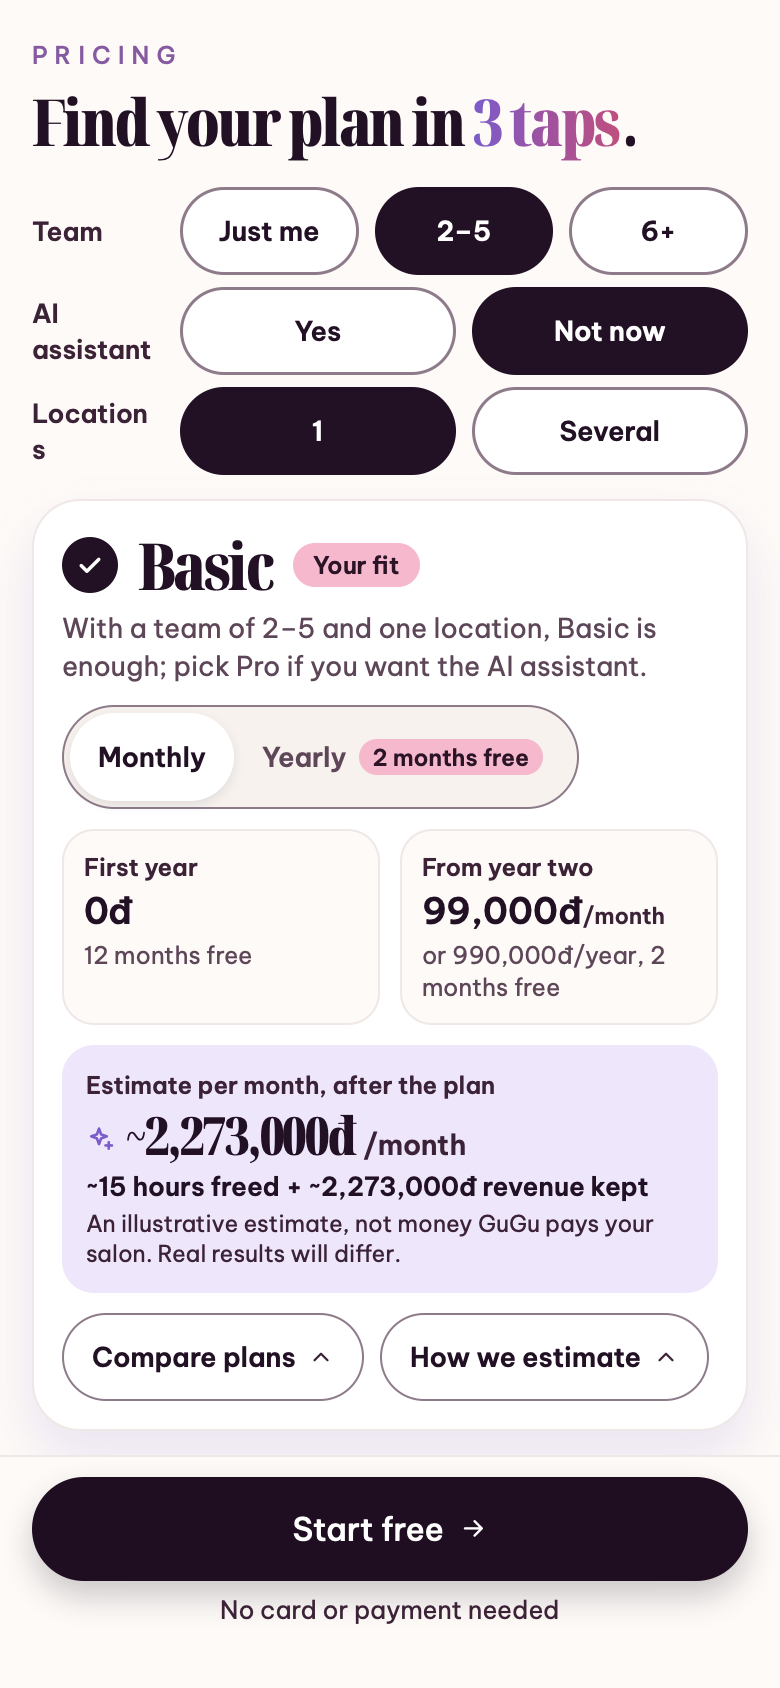
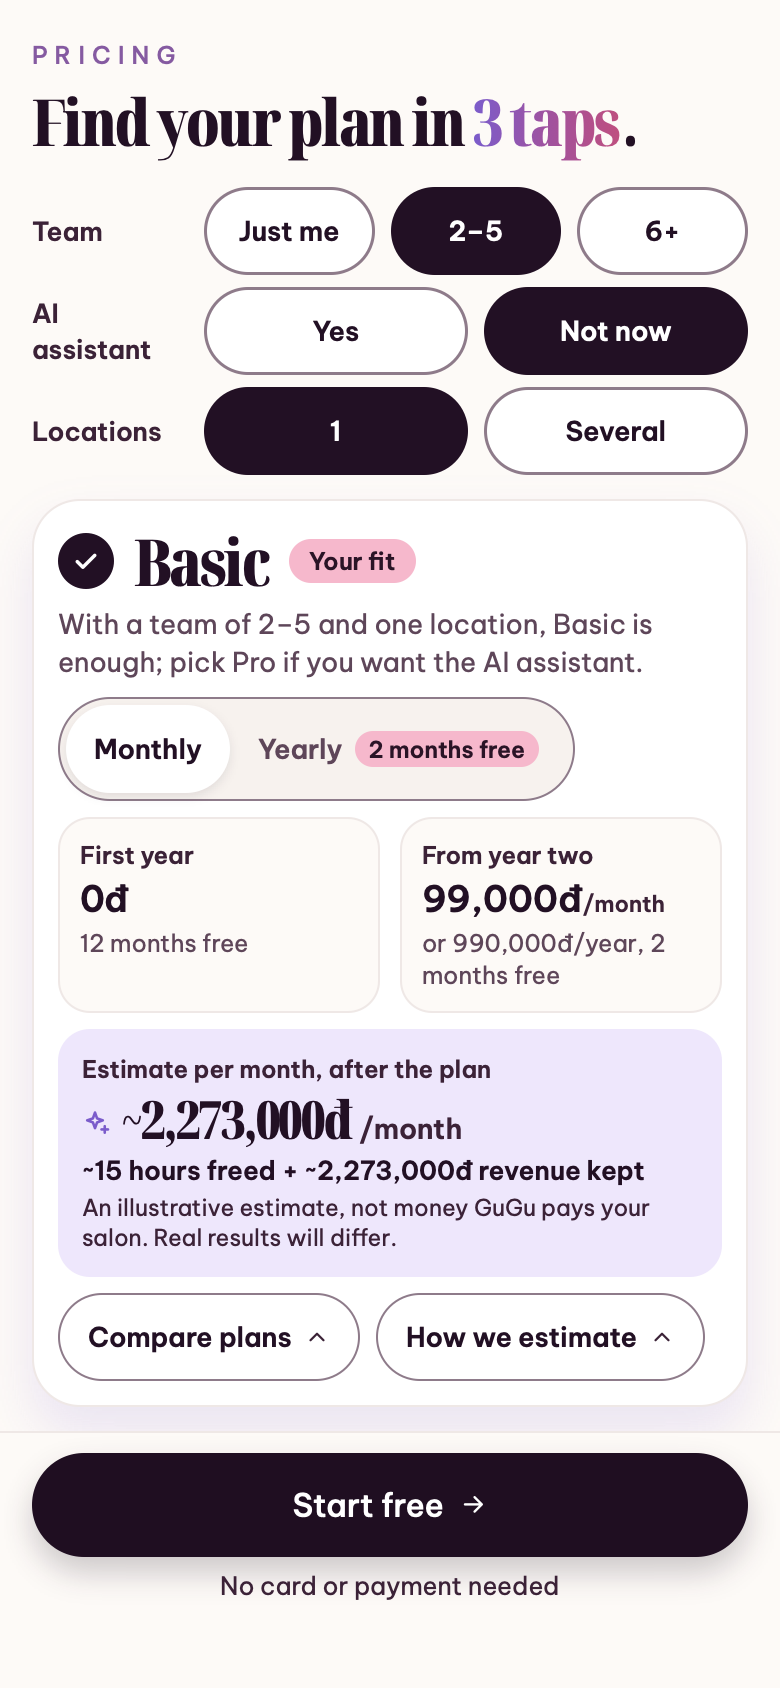
fix(02): pricing re-review — Ultra costed as Pro until multi-location ships, Ultra row fits, a11y and token nits
- model: billedPlan (Ultra → Pro, q106 honest default); cost cell, net estimate and live summary
  use Pro's price, plus 'Ultra từ 699.000đ/tháng khi đủ tính năng nhiều cơ sở'
- en ultra.highlight shortened; other-plan rows may wrap to 2 lines
- formatVND(0) in the live summary; full accessible names on short phone chips;
  Home/End in roving radios; shadow tokens reference color.*; glowInk documented as large text only
  and tested on white; lineStrong tested on tile; label column no longer breaks 'Locations'
- QA screenshots refreshed

diff --git a/apps/app/features/landing/pricing/parts.tsx b/apps/app/features/landing/pricing/parts.tsx
@@ -2,7 +2,7 @@ import { useEffect, useRef, useState, type ReactNode } from "react";
 import { Animated, Platform, View } from "react-native";
 import { useTranslation } from "react-i18next";
 
-import { type BillingInterval, planPriceVnd } from "@gugu/contracts";
+import { PLAN_MONTHLY_PRICE_VND, type BillingInterval, planPriceVnd } from "@gugu/contracts";
 import { Icon, Text, color, motion, radius } from "@gugu/design-system";
 import { yearlySavingVnd } from "@gugu/domain";
 import { formatNumber, formatVND } from "@gugu/localization";
@@ -145,8 +145,10 @@ export function CostRow({
   const unit = t(interval === "month" ? "pricing.cost.unitMonth" : "pricing.cost.unitYear");
   const yearlyLine =
     interval === "year"
-      ? t("pricing.cost.saveYear", { v: formatVND(yearlySavingVnd(plan), locale) })
-      : t("pricing.cost.orYear", { price: formatVND(planPriceVnd(plan, "year"), locale) });
+      ? t("pricing.cost.saveYear", { v: formatVND(yearlySavingVnd(advice.billed), locale) })
+      : t("pricing.cost.orYear", {
+          price: formatVND(planPriceVnd(advice.billed, "year"), locale),
+        });
   const later = (testID: string) => (
     <>
       <Price testID={testID} v={cost.laterPeriodVnd} unit={unit} reduce={reduce} size={size} />
@@ -160,6 +162,13 @@ export function CostRow({
     return (
       <CostCell label={t("pricing.cost.afterTrialLabel")} desktop={desktop}>
         {later(TEST_ID.first)}
+        {plan === "ultra" ? (
+          <Text size={12} lineHeight={16} color={color.ink2}>
+            {t("pricing.cost.ultraLater", {
+              price: formatVND(PLAN_MONTHLY_PRICE_VND.ultra, locale),
+            })}
+          </Text>
+        ) : null}
       </CostCell>
     );
   }
@@ -235,4 +244,22 @@ export function Savings({
       </Text>
     </View>
   );
+}
+
+/** Screen-reader summary of the answer: plan, why and what is billed (Ultra starts on Pro). */
+export function useSummary(advice: Advice, interval: BillingInterval, name: string, why: string) {
+  const { t } = useTranslation("landing");
+  const locale = useLocale();
+  const unit = t(interval === "month" ? "pricing.cost.unitMonth" : "pricing.cost.unitYear");
+  const price = formatVND(planPriceVnd(advice.billed, interval), locale);
+  const ultra = t("pricing.cost.ultraLater", {
+    price: formatVND(PLAN_MONTHLY_PRICE_VND.ultra, locale),
+  });
+  const cost =
+    advice.plan === "basic"
+      ? t("pricing.a11y.costBasic", { free: formatVND(0, locale), price, unit })
+      : advice.plan === "ultra"
+        ? t("pricing.a11y.costUltra", { price, unit, ultra })
+        : t("pricing.a11y.costPaid", { price, unit });
+  return t("pricing.a11y.result", { plan: name, why, cost });
 }

diff --git a/apps/app/features/landing/pricing/ResultCard.tsx b/apps/app/features/landing/pricing/ResultCard.tsx
@@ -3,16 +3,12 @@ import { Animated, View } from "react-native";
 import { useTranslation } from "react-i18next";
 
 import { PUBLIC_PLANS, type BillingInterval, type PublicPlanCode } from "@gugu/contracts";
-import { PLAN_MONTHLY_PRICE_VND, planPriceVnd } from "@gugu/contracts";
 import { Icon, Text, color, radius, shadow } from "@gugu/design-system";
-import { formatVND } from "@gugu/localization";
-
-import { useLocale } from "@/services/i18n/useLocale";
 
 import { Segmented } from "./Choice";
 import type { Advice } from "./model";
 import { LinkChip, OtherPlan } from "./links";
-import { CostRow, Savings, usePop } from "./parts";
+import { CostRow, Savings, usePop, useSummary } from "./parts";
 
 /** Visually hidden but read by screen readers. */
 const SR_ONLY = {
@@ -54,21 +50,8 @@ export function ResultCard({
   const { t } = useTranslation("landing");
   const { plan } = advice;
   const { scale, check } = usePop(plan, reduce);
-  const locale = useLocale();
   const name = t(`pricing.plan.${plan}.name`);
-  const unit = t(interval === "month" ? "pricing.cost.unitMonth" : "pricing.cost.unitYear");
-  const price = formatVND(
-    interval === "month" ? PLAN_MONTHLY_PRICE_VND[plan] : planPriceVnd(plan, "year"),
-    locale,
-  );
-  const summary = t("pricing.a11y.result", {
-    plan: name,
-    why,
-    cost: t(plan === "basic" ? "pricing.a11y.costBasic" : "pricing.a11y.costPaid", {
-      price,
-      unit,
-    }),
-  });
+  const summary = useSummary(advice, interval, name, why);
   const links = (
     <>
       <LinkChip
@@ -85,8 +68,8 @@ export function ResultCard({
       testID="pricing-result"
       style={{
         transform: [{ scale }],
-        gap: desktop ? 12 : 10,
-        padding: desktop ? 24 : 14,
+        gap: desktop ? 12 : 8,
+        padding: desktop ? 24 : 12,
         borderRadius: desktop ? radius.xl : radius.lg,
         backgroundColor: color.white,
         borderWidth: 1,

diff --git a/apps/app/features/landing/pricing/Choice.tsx b/apps/app/features/landing/pricing/Choice.tsx
@@ -5,7 +5,12 @@ import { MIN_TOUCH, Text, checkableA11y, color, radius, shadow } from "@gugu/des
 
 import { useRoving } from "./useRoving";
 
-export type ChoiceOption<T extends string> = { value: T; label: string };
+export type ChoiceOption<T extends string> = {
+  value: T;
+  label: string;
+  /** Full accessible name when the visible label is shortened (e.g. "2–5" → "2–5 người"). */
+  a11yLabel?: string;
+};
 
 /**
  * One quick question: a short visible label and big one-tap chips (radio group, roving tabindex +
@@ -46,7 +51,7 @@ export function ChoiceRow<T extends string>({
         gap: 10,
       }}
     >
-      <View style={inline ? { width: 64 } : undefined}>
+      <View style={inline ? { width: 76 } : undefined}>
         <Text role="uiSemiBold" size={inline ? 13 : 15} color={color.ink2}>
           {label}
         </Text>
@@ -56,6 +61,7 @@ export function ChoiceRow<T extends string>({
           <Chip
             key={o.value}
             label={o.label}
+            a11yLabel={o.a11yLabel ?? o.label}
             selected={o.value === value}
             onPress={() => {
               onChange(o.value);
@@ -72,6 +78,7 @@ export function ChoiceRow<T extends string>({
 
 function Chip({
   label,
+  a11yLabel,
   selected,
   onPress,
   grow,
@@ -79,6 +86,7 @@ function Chip({
   roving,
 }: {
   label: string;
+  a11yLabel: string;
   selected: boolean;
   onPress: () => void;
   grow: boolean;
@@ -89,7 +97,7 @@ function Chip({
     <Pressable
       {...roving}
       {...checkableA11y("radio", selected)}
-      accessibilityLabel={label}
+      accessibilityLabel={a11yLabel}
       onPress={onPress}
       style={(state): ViewStyle => {
         const hovered = (state as { hovered?: boolean }).hovered === true;

diff --git a/apps/app/features/landing/pricing/useRoving.ts b/apps/app/features/landing/pricing/useRoving.ts
@@ -7,7 +7,7 @@ const STEP: Record<string, number> = { ArrowRight: 1, ArrowDown: 1, ArrowLeft: -
 
 /**
  * Roving tabindex for a radio group (WAI-ARIA APG): only the checked option is in the tab order;
- * arrow keys move the selection and the focus. Web keyboard only; native ignores the props.
+ * arrow keys (and Home/End) move the selection and the focus. Web keyboard only; native ignores the props.
  * Spread the result of `props(i)` on option `i`.
  */
 export function useRoving<T extends string>(
@@ -23,10 +23,18 @@ export function useRoving<T extends string>(
       },
       tabIndex: values[i] === value ? 0 : -1,
       onKeyDown: (e: KeyEvent) => {
+        const last = values.length - 1;
         const d = STEP[e.key];
-        if (d === undefined) return;
+        const n =
+          e.key === "Home"
+            ? 0
+            : e.key === "End"
+              ? last
+              : d === undefined
+                ? -1
+                : (i + d + values.length) % values.length;
+        if (n < 0) return;
         e.preventDefault();
-        const n = (i + d + values.length) % values.length;
         const next = values[n];
         if (next === undefined) return;
         onChange(next);

diff --git a/packages/design-system/src/tokens.ts b/packages/design-system/src/tokens.ts
@@ -55,7 +55,10 @@ export const gradient = {
   glowUp: ["#6F55C9", "#B58BEA", "#F69BB3", "#F8A27C"],
   /** Two-stop lilac → pink used for big numbers and progress fills (≤ 2 headline words). */
   glowSoft: ["#A68CF6", "#F08DB4"],
-  /** Deep glow for gradient text that must stay readable (every stop ≥ 4.3:1 on canvas/white). */
+  /**
+   * Deep glow for gradient text that must stay readable: every stop ≥ 4.3:1 on canvas/white, so it
+   * passes AA for large text only (≥ 24 px, or ≥ 18.66 px bold). Never use it for body text.
+   */
   glowInk: ["#7B5CCB", "#A0529E", "#C04F7E"],
 } as const;
 
@@ -83,14 +86,14 @@ export const opacity = { backdrop: 0.42, disabled: 0.4 } as const;
 export const shadow = {
   /** Floating result / feature cards. */
   card: {
-    shadowColor: "#7B5CCB",
+    shadowColor: color.lilac700,
     shadowOpacity: 0.14,
     shadowRadius: 30,
     shadowOffset: { width: 0, height: 14 },
   },
   /** Selected segment, small raised controls. */
   raised: {
-    shadowColor: "#221024",
+    shadowColor: color.ink,
     shadowOpacity: 0.1,
     shadowRadius: 6,
     shadowOffset: { width: 0, height: 2 },

diff --git a/apps/app/features/landing/pricing/model.ts b/apps/app/features/landing/pricing/model.ts
@@ -66,8 +66,18 @@ export function estimate(weekly: number, price: number): Estimate {
   };
 }
 
+/**
+ * The plan a visitor actually starts on and pays for. Ultra's multi-location features are not built
+ * yet (q106), so an Ultra recommendation starts on Pro and is billed as Pro until they ship.
+ */
+export function billedPlan(plan: PublicPlanCode): PublicPlanCode {
+  return plan === "ultra" ? "pro" : plan;
+}
+
 export type Advice = {
   plan: PublicPlanCode;
+  /** What is billed today (`billedPlan`); `cost` is for this plan. */
+  billed: PublicPlanCode;
   estimate: Estimate;
   cost: ReturnType<typeof planCost>;
   /** Revenue kept minus the plan's monthly cost in the first year (may be negative). */
@@ -83,9 +93,11 @@ export function advise(
   price: number,
 ): Advice {
   const e = estimate(weekly, price);
-  const cost = planCost(plan, interval);
+  const billed = billedPlan(plan);
+  const cost = planCost(billed, interval);
   return {
     plan,
+    billed,
     estimate: e,
     cost,
     netFirstYearPerMonthVnd: e.keptVnd - cost.firstYearPerMonthVnd,

diff --git a/apps/app/features/landing/pricing/model.test.ts b/apps/app/features/landing/pricing/model.test.ts
@@ -28,4 +28,12 @@ describe("pricing assistant model", () => {
     expect(pro.cost.firstYearVnd).toBe(2_990_000);
     expect(pro.netFirstYearPerMonthVnd).toBe(2_273_000 - 249_167);
   });
+
+  it("Ultra starts on Pro and is costed as Pro until multi-location ships (q106)", () => {
+    const ultra = advise("ultra", "month", 70, 300_000);
+    expect(ultra.plan).toBe("ultra");
+    expect(ultra.billed).toBe("pro");
+    expect(ultra.cost.laterPeriodVnd).toBe(299_000);
+    expect(ultra.netFirstYearPerMonthVnd).toBe(2_273_000 - 299_000);
+  });
 });

diff --git a/packages/design-system/src/tokens.test.ts b/packages/design-system/src/tokens.test.ts
@@ -31,6 +31,7 @@ describe("tokens", () => {
   it("lineStrong reaches 3:1 on white (non-text contrast)", () => {
     expect(contrast(color.lineStrong, color.white)).toBeGreaterThanOrEqual(3);
     expect(contrast(color.lineStrong, color.canvas)).toBeGreaterThanOrEqual(3);
+    expect(contrast(color.lineStrong, color.tile)).toBeGreaterThanOrEqual(3);
   });
   it("glowInk stops stay readable on canvas", () => {
     for (const stop of gradient.glowInk)

diff --git a/apps/app/features/landing/pricing/links.tsx b/apps/app/features/landing/pricing/links.tsx
@@ -47,7 +47,7 @@ export function OtherPlan({
       </View>
       <View style={{ flex: 1, flexDirection: "row", alignItems: "center", gap: 6 }}>
         <View style={{ flexShrink: 1 }}>
-          <Text size={13} lineHeight={18} color={color.body} numberOfLines={1}>
+          <Text size={13} lineHeight={18} color={color.body} numberOfLines={2}>
             {t(`pricing.plan.${plan}.highlight`)}
           </Text>
         </View>

diff --git a/apps/app/features/landing/Pricing.tsx b/apps/app/features/landing/Pricing.tsx
@@ -106,6 +106,7 @@ export function Pricing({ nav, stacked }: { nav: LandingNavActions; stacked: boo
         options={TEAMS.map((v) => ({
           value: v,
           label: desktop ? t(`pricing.q.team.${v}`) : t(`pricing.q.team.short.${v}`),
+          a11yLabel: t(`pricing.q.team.${v}`),
         }))}
       />
       <ChoiceRow

diff --git a/docs/domains/design-system.md b/docs/domains/design-system.md
@@ -45,7 +45,7 @@ References received (ref-01). Produced with AI tools on fal.ai (no 3D artist). C
 - **Stage height** = scroller `clientHeight` via `--sv` (no vh/svh/dvh mismatch inside the RN Web ScrollView).
 - **QA and metrics:** `docs/qa/02-landing-flow/README.md`.
 
-**Tokens added (02-PRICING-ADVISOR):** `color.lineStrong` (#8E7B8A, ≥ 3:1 on white/canvas/tile for control borders), `gradient.glowInk` (every stop ≥ 4.3:1 on canvas, for gradient text that must be readable), `motion.bezier` (JS control points of `motion.ease`), `motion.spring.pop`, `opacity` (backdrop, disabled), `shadow` (card, raised). Contrast asserted in `tokens.test.ts`.
+**Tokens added (02-PRICING-ADVISOR):** `color.lineStrong` (#8E7B8A, ≥ 3:1 on white/canvas/tile for control borders), `gradient.glowInk` (every stop ≥ 4.3:1 on canvas/white: AA for large text only, never body text), `motion.bezier` (JS control points of `motion.ease`), `motion.spring.pop`, `opacity` (backdrop, disabled), `shadow` (card, raised). Contrast asserted in `tokens.test.ts`.
 
 **Tokens added (02-LANDING-FLOW):** `motion` (fast 120 · base 200 · slow 320 · deliberate 500 ms, ease out/inOut), `color.danger`/`dangerInk`/`dangerTint`, `zalo`, `paper`/`paperLine`, `sheet`/`sheetLine`, `gradient.glowSoft` + `cssGradient()`.
 
@@ -57,8 +57,8 @@ References received (ref-01). Produced with AI tools on fal.ai (no 3D artist). C
 - **Estimate:** net per month = revenue kept − plan cost per month, plus hours freed; labelled as an illustrative estimate, not money GuGu pays. Assumptions (4.33 weeks, 3 min per booking, 10 % no-shows, 25 % fewer with reminders) are shown step by step in the "Cách tính" sheet (`RoiCalculator.tsx`).
 - **Layout:** desktop questions | result, fits 1280×800; phone fits 390×844 after snapping (CTA pinned with CSS sticky, section is a scroll-snap point), 360×640 within one scroll. Sheets: RN `Modal` (bottom sheet on phones, dialog on desktop).
 - **Motion:** numbers count up (`useCountUp`, `motion.duration.deliberate`, ease-out), result card pops and the check draws in on plan change (`usePop`); all off with reduced motion.
-- **Honesty (q106 pending):** Pro's monthly AI review and Ultra's multi-location / combined reporting / advanced analytics are in the catalogue but not built, so they carry a "Sắp có" tag (`pricing/Soon.tsx`) and `why.ultra` says multi-location is coming. Ultra's CTA is the Pro trial, with a one-line note (no separate Ultra trial). Payroll, commissions and Insights are ungated (every plan).
-- **A11y:** radio groups use a roving tabindex with arrow keys (`pricing/useRoving.ts`); one polite live summary (plan, why, cost); sheets are one labelled dialog with focus on Close and a backdrop hidden from AT; the pinned phone CTA sets `scroll-padding-bottom` on the scroller and scrolls focused controls clear of it (`pricing/useFocusClearance.ts`, WCAG 2.4.11). The savings number is ink (the sparkle is decorative).
+- **Honesty (q106 pending):** Pro's monthly AI review and Ultra's multi-location / combined reporting / advanced analytics are in the catalogue but not built, so they carry a "Sắp có" tag (`pricing/Soon.tsx`) and `why.ultra` says multi-location is coming. Ultra's CTA is the Pro trial, with a one-line note (no separate Ultra trial). An Ultra recommendation is costed as Pro (`billedPlan`), the plan the salon actually starts on, with the line "Ultra từ 699.000đ/tháng khi đủ tính năng nhiều cơ sở"; the live summary says the same. Payroll, commissions and Insights are ungated (every plan).
+- **A11y:** radio groups use a roving tabindex with arrow keys and Home/End (short phone labels keep the full accessible name) (`pricing/useRoving.ts`); one polite live summary (plan, why, cost); sheets are one labelled dialog with focus on Close and a backdrop hidden from AT; the pinned phone CTA sets `scroll-padding-bottom` on the scroller and scrolls focused controls clear of it (`pricing/useFocusClearance.ts`, WCAG 2.4.11). The savings number is ink (the sparkle is decorative).
 - **QA:** screenshots `docs/qa/02-pricing-advisor/` (Chromium + WebKit, 1440/1280/390/360, vi/en, `flow-*` = interactions and sheets).
 
 ## Decisions
